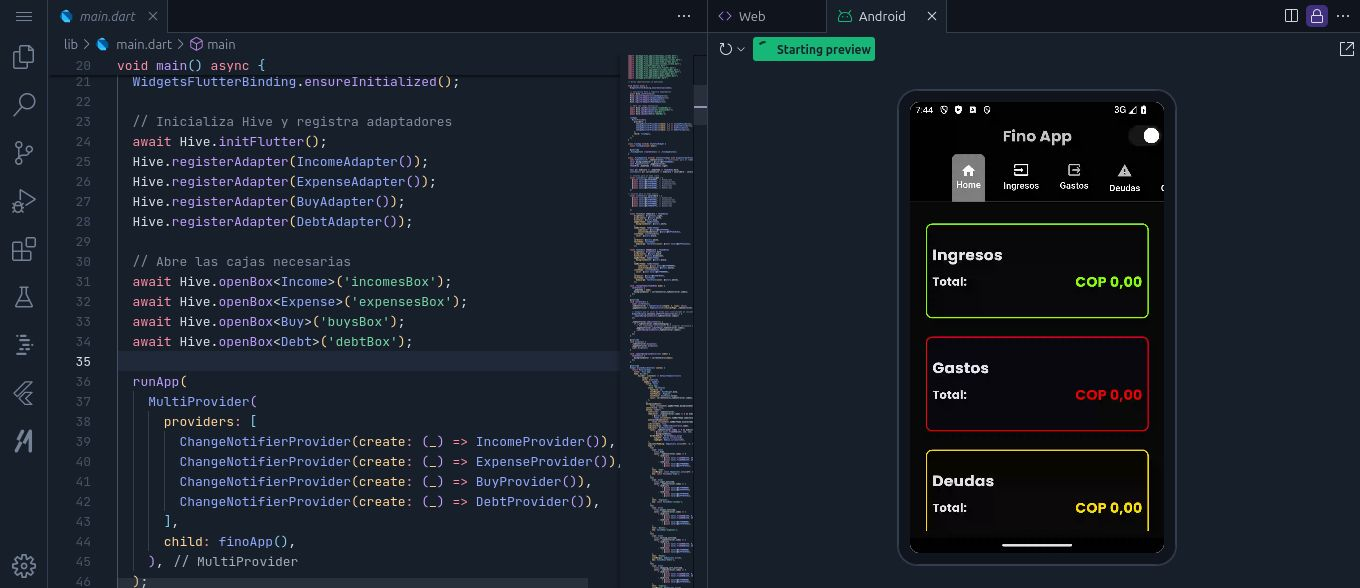
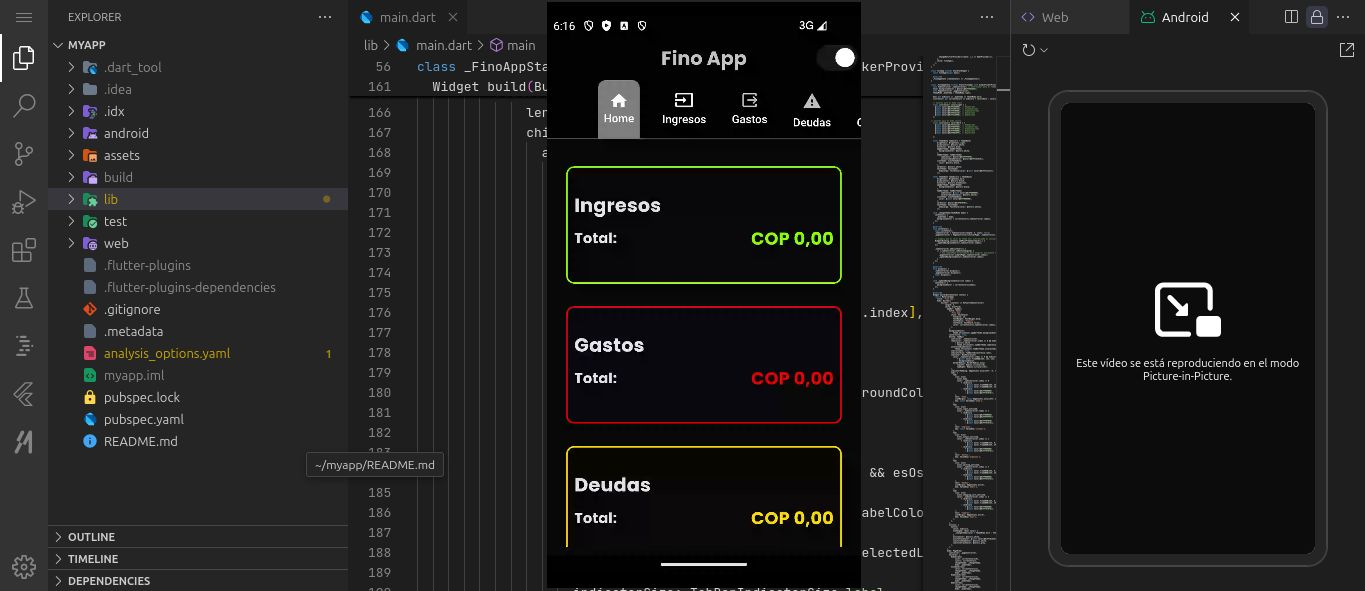
Updated projects

diff --git a/src/components/Carousel.jsx b/src/components/Carousel.jsx
@@ -97,7 +97,7 @@ const Carousel = () => {
             animate={{ opacity: 1, x: 0 }}
             exit={{ opacity: 0, x: -100 }}
             transition={{ duration: 0.5 }}
-            className="w-full h-auto flex flex-col rounded-xl shadow-lg border border-gray-100 dark:border-gray-700 bg-white dark:bg-gray-900"
+            className="w-full h-auto flex flex-col rounded-xl shadow-lg border border-gray-100 dark:border-gray-700 bg-white dark:bg-gray-900 cursor-pointer"
             onClick={() => window.open(Projects[currentIndex].url, '_blank')}
           >
             {/* Imagen con altura fija para mantener el mismo tamaño */}

diff --git a/src/lib/projectData.ts b/src/lib/projectData.ts
@@ -15,6 +15,6 @@ export   const Projects = [
     techStack: ['Flutter', 'Dart', 'Hive'],
     image: ['/images/finoapp.jpg', '/images/finoapp-2.jpg'],
     time: 'En desarrollo',
-    url: 'https://github.com/yamiddevofic/finoapp'
+    url: 'https://github.com/yamiddevofic/fino_app'
   }
 ];
